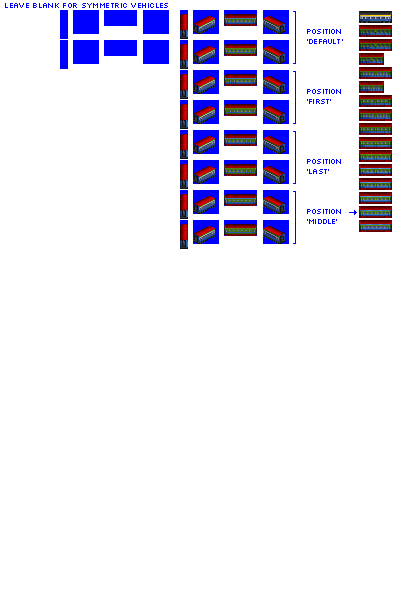
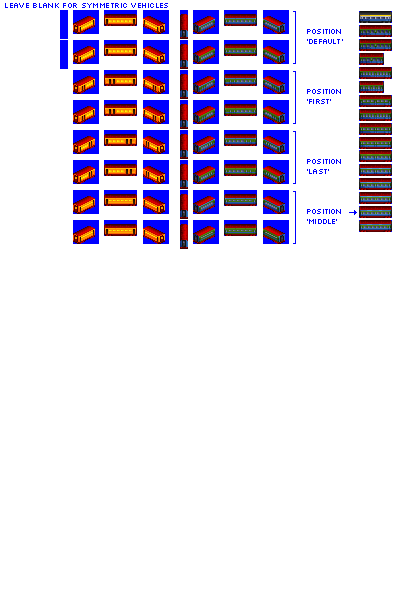
Change: sprites complete for gen 4A luxury pax car

diff --git a/src/vehicles/luxury_passenger_cars.py b/src/vehicles/luxury_passenger_cars.py
@@ -39,7 +39,8 @@ def main():
     consist = PassengerLuxuryCarConsist(roster='pony',
                                         base_numeric_id=3120,
                                         gen=4,
-                                        subtype='A')
+                                        subtype='A',
+                                        sprites_complete=True)
 
     consist.add_unit(type=PaxMailCar,
                      capacity=40,
